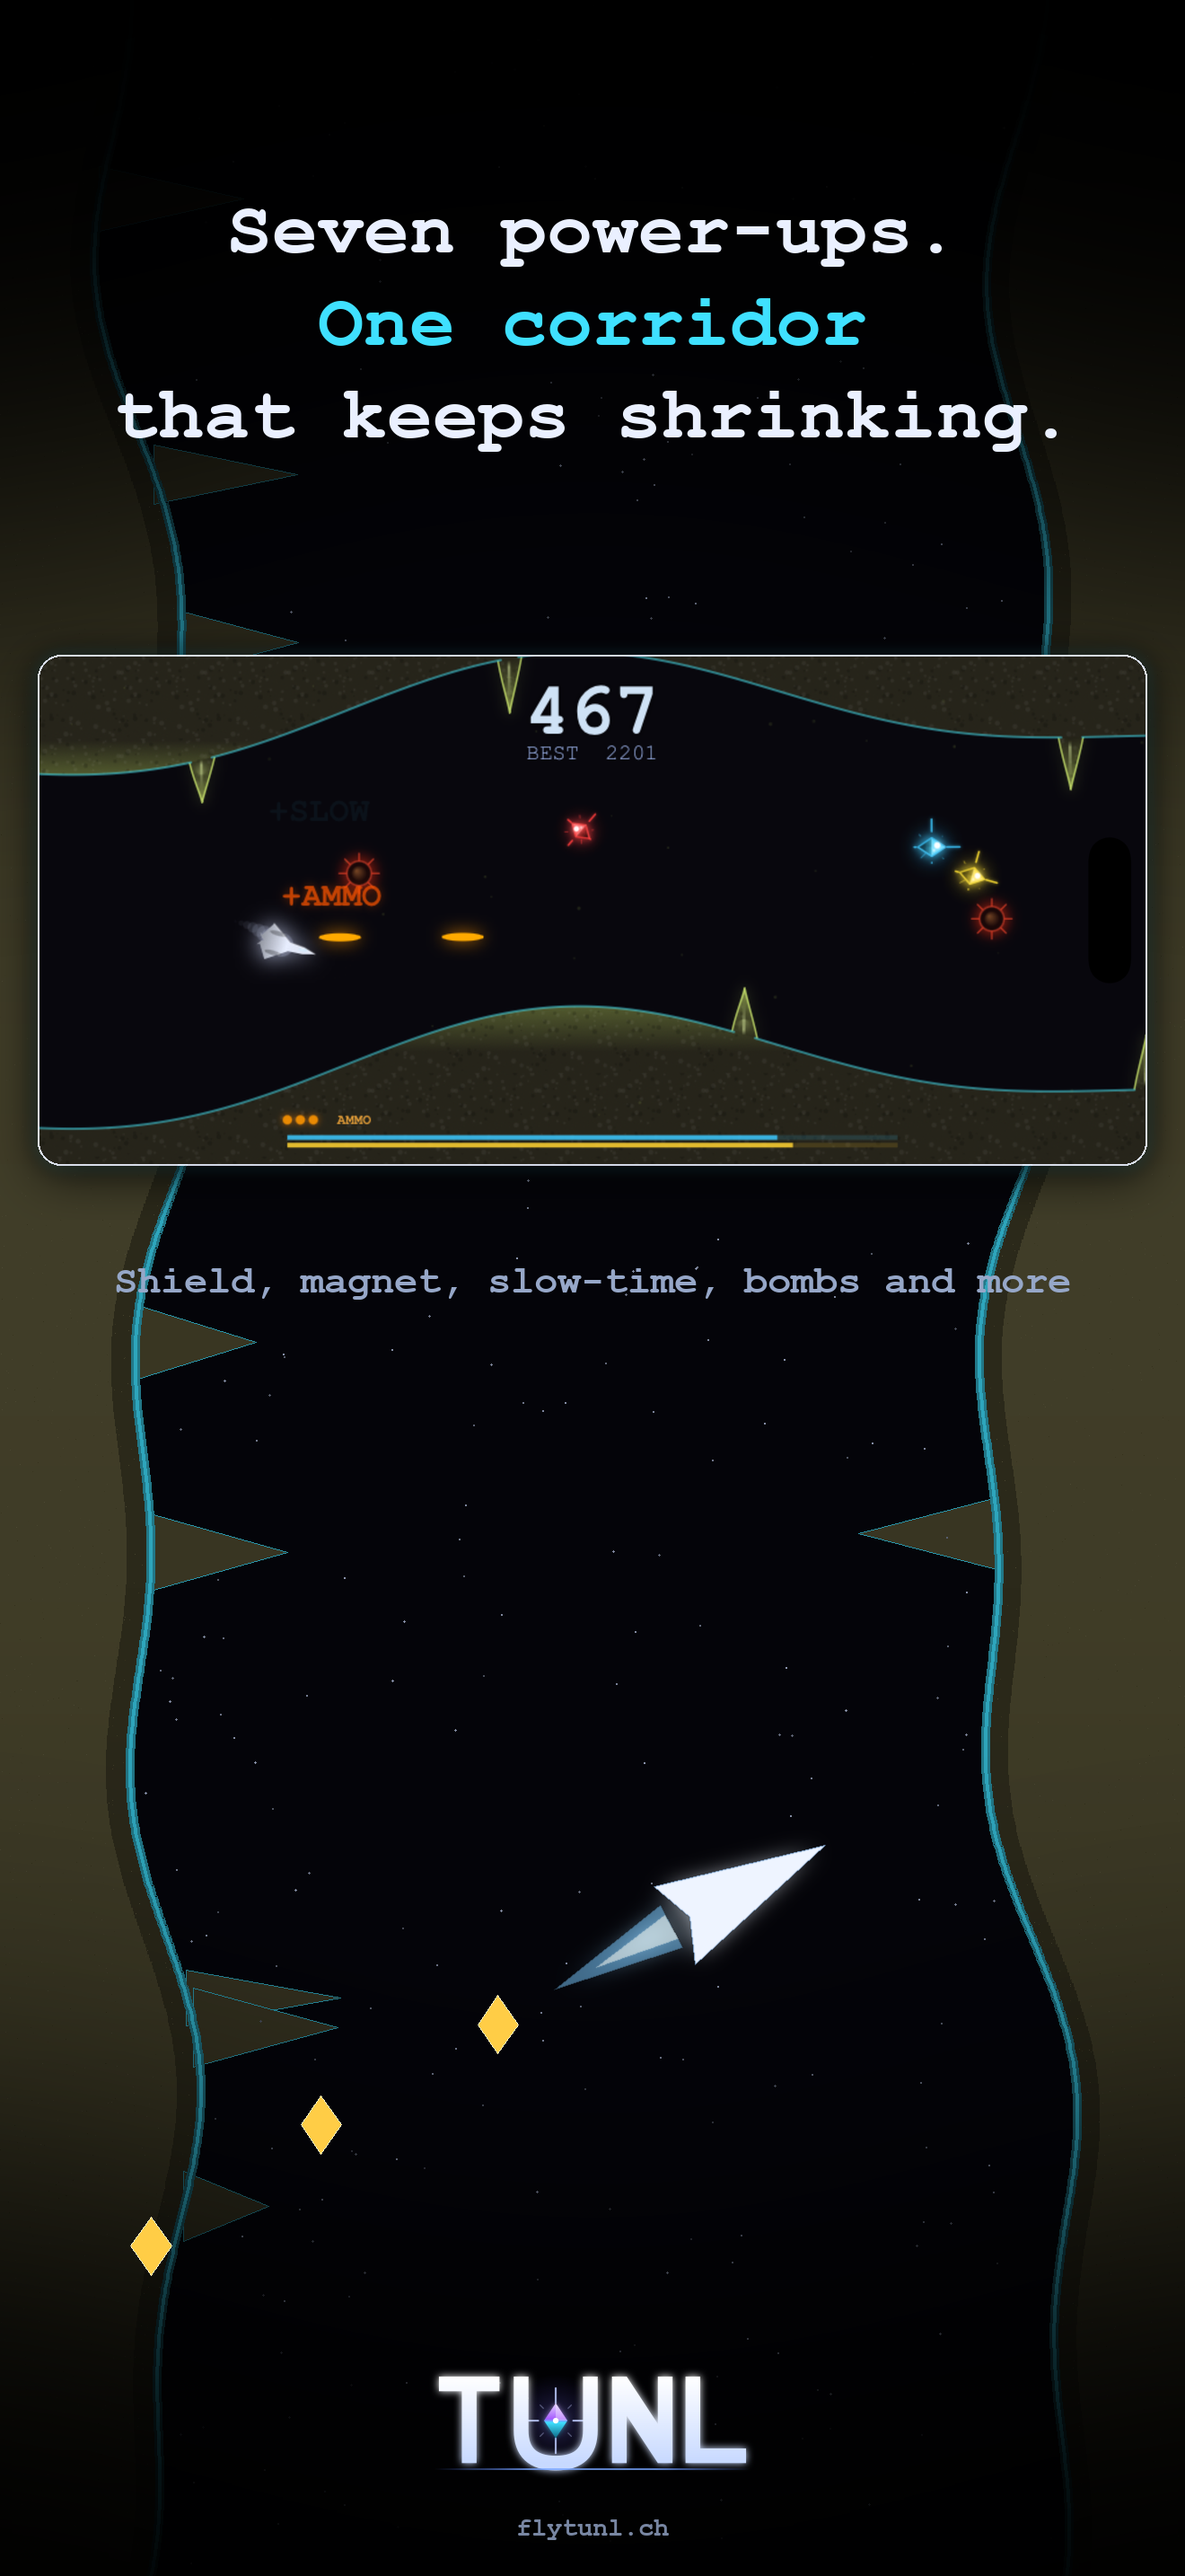
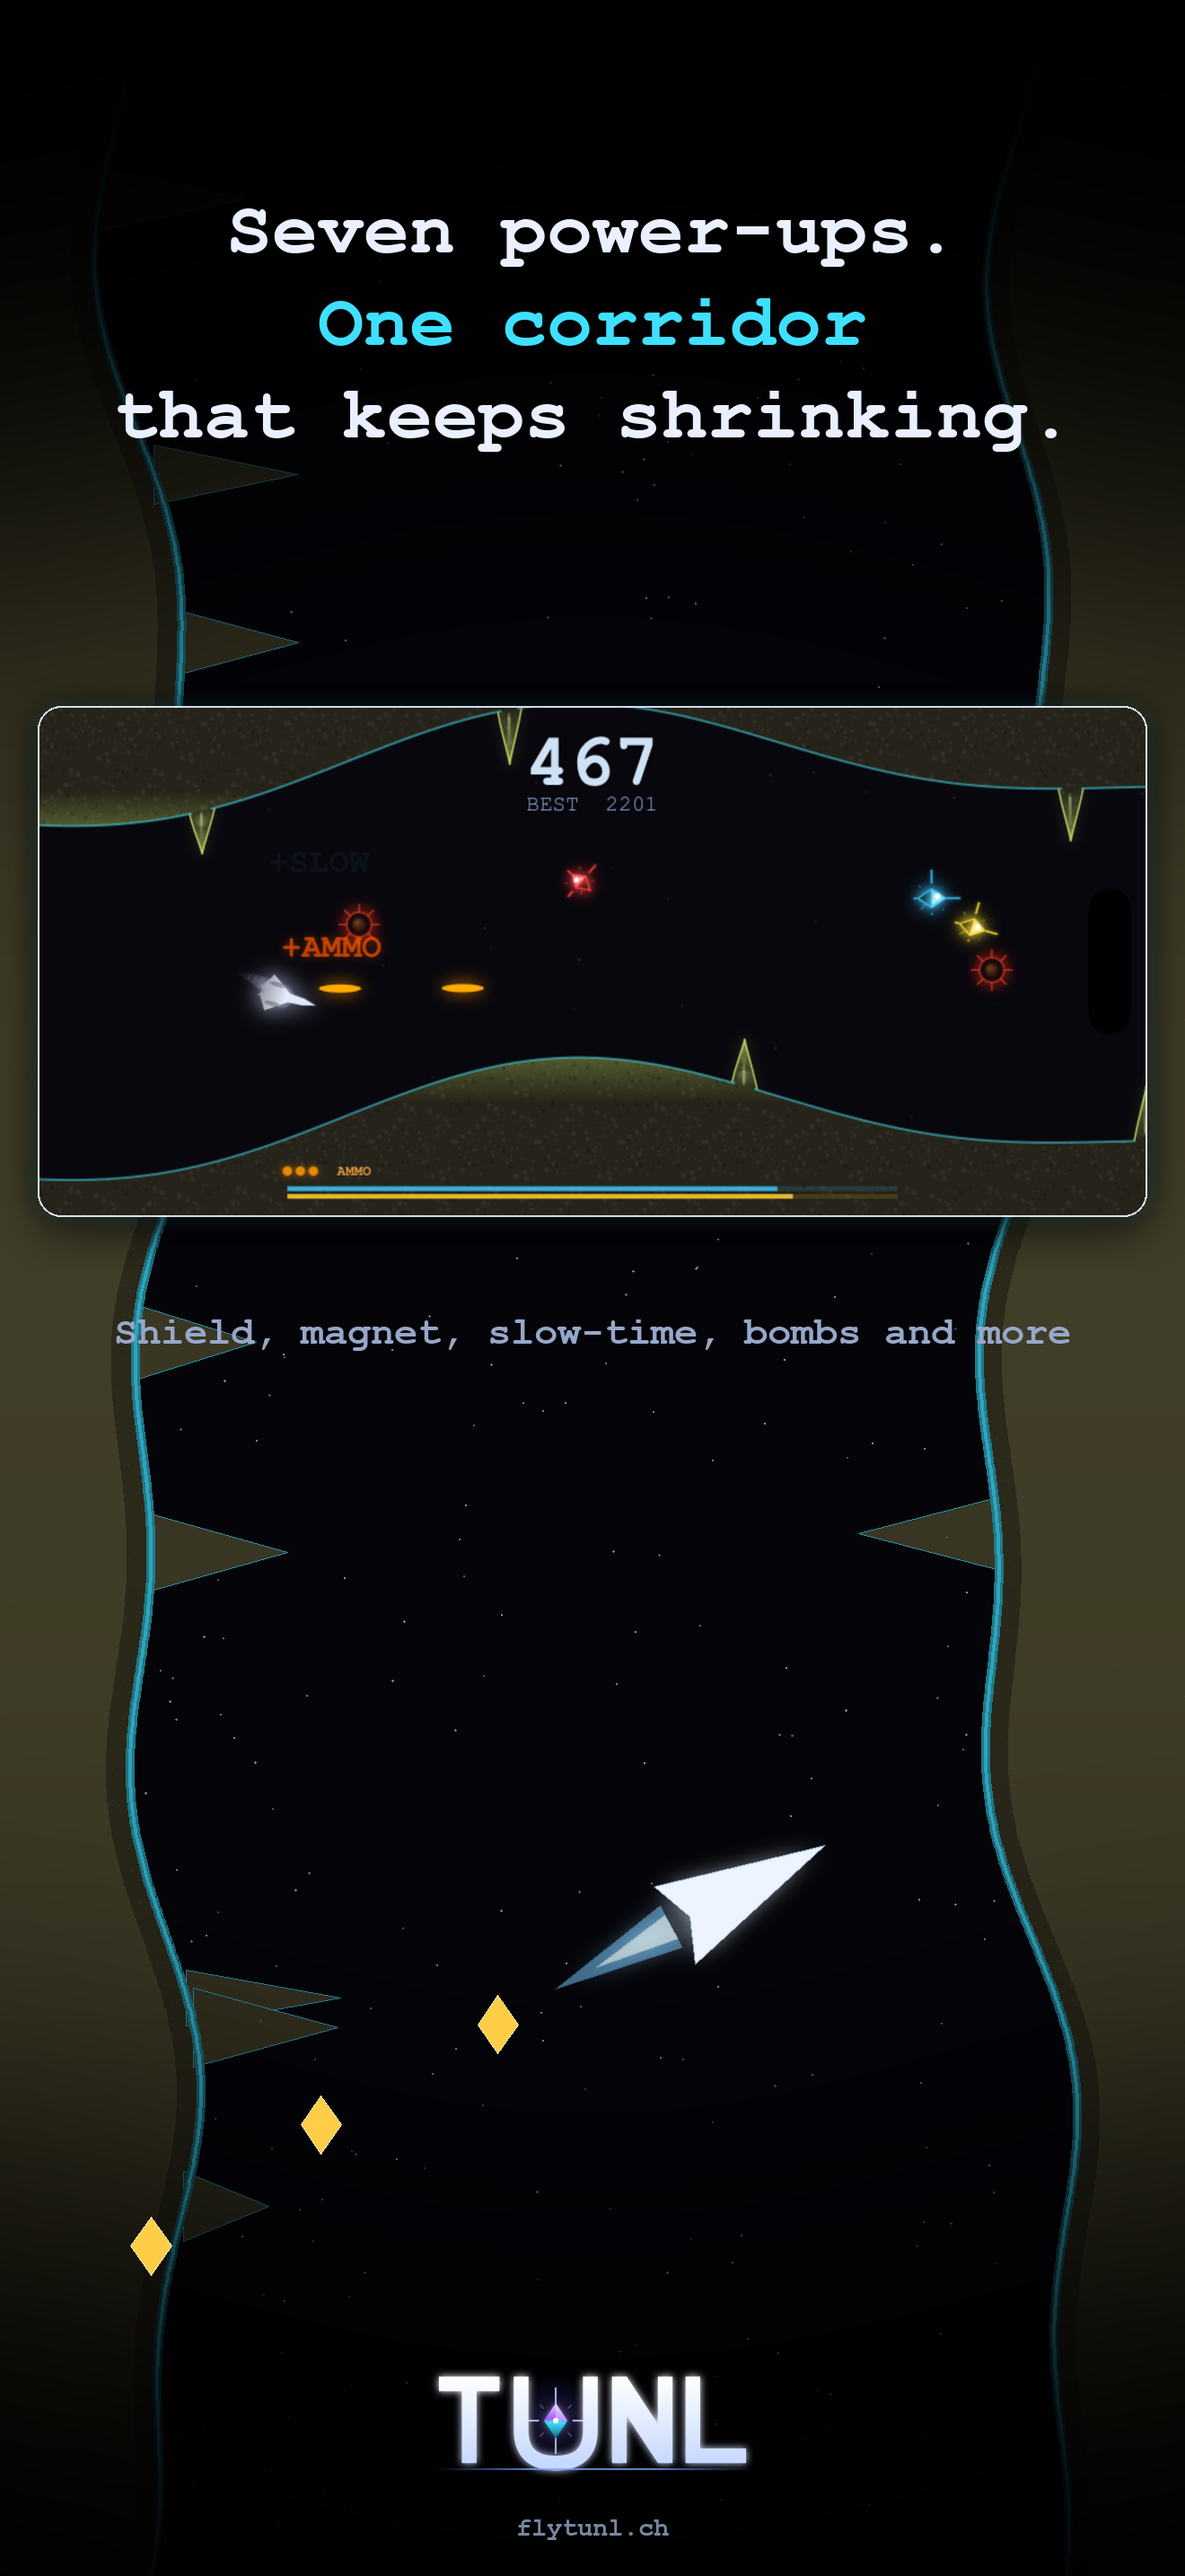
Rail badges for rank/challenges, tighter title + popup spacing

Changed region(s): [[0.0311, 0.2483, 0.9939, 0.5275]]

diff --git a/src/draw.js b/src/draw.js
@@ -1669,17 +1669,36 @@ function drawRailIcon(key, cx, cy, r, color, lineW) {
             break;
         }
         case 'challenge': {
-            // Crossed blades.
-            const L = r * 1.15;
-            ctx.beginPath();
-            ctx.moveTo(cx - L * 0.5, cy - L * 0.5);
-            ctx.lineTo(cx + L * 0.5, cy + L * 0.5);
-            ctx.moveTo(cx + L * 0.5, cy - L * 0.5);
-            ctx.lineTo(cx - L * 0.5, cy + L * 0.5);
-            ctx.stroke();
-            ctx.beginPath();
-            ctx.arc(cx, cy, r * 0.11, 0, Math.PI * 2);
-            ctx.fill();
+            // Crossed swords -- a bare X read as a close/cancel button rather
+            // than a duel (direct feedback). Each blade now gets a crossguard
+            // tick near the middle and a pommel dot at its hilt end (the two
+            // bottom-outer corners), tips pointing to the two top-outer
+            // corners, so the shape reads as swords rather than an X.
+            const L = r * 1.1;
+            const blades = [
+                [cx - L * 0.55, cy - L * 0.55, cx + L * 0.55, cy + L * 0.55],
+                [cx + L * 0.55, cy - L * 0.55, cx - L * 0.55, cy + L * 0.55],
+            ];
+            for (const [tx, ty, hx, hy] of blades) {
+                ctx.beginPath();
+                ctx.moveTo(tx, ty);
+                ctx.lineTo(hx, hy);
+                ctx.stroke();
+                // Crossguard: a short perpendicular tick partway from tip to hilt.
+                const t = 0.60;
+                const gx = tx + (hx - tx) * t, gy = ty + (hy - ty) * t;
+                const dx = hx - tx, dy = hy - ty, len = Math.hypot(dx, dy);
+                const nx = -dy / len, ny = dx / len;
+                const gw = r * 0.30;
+                ctx.beginPath();
+                ctx.moveTo(gx - nx * gw, gy - ny * gw);
+                ctx.lineTo(gx + nx * gw, gy + ny * gw);
+                ctx.stroke();
+                // Pommel.
+                ctx.beginPath();
+                ctx.arc(hx, hy, r * 0.09, 0, Math.PI * 2);
+                ctx.fill();
+            }
             break;
         }
         case 'shop': {
@@ -2016,6 +2035,9 @@ function drawTitleScreen() {
     // in-run flash. Same shrink-to-fit against the screen edges the level line
     // above uses, and the same wallBase accent color the wall glow uses
     // elsewhere, so the name itself visually IS the day's rock.
+    // Kept in an outer var so the REKORD line below can anchor its gap to this
+    // line's actual baseline rather than a hard H fraction.
+    let planetBaselineY = LAND ? H * 0.395 - 11 : H / 2 - H * 0.038;
     {
         const planetLine = `${T.planet} ${WEEKDAY_PALETTES[weekdayIndex(new Date())].planet.toUpperCase()}`;
         let planetFsz = FS * 0.020;
@@ -2033,7 +2055,8 @@ function drawTitleScreen() {
         ctx.shadowColor = rgb(dayTheme.wallBase, a * 0.85);
         ctx.shadowBlur  = 8;
         ctx.fillStyle   = rgb(dayTheme.wallBase, a * 0.95);
-        ctx.fillText(planetLine, titleX, (LAND ? H * 0.395 - 11 : H / 2 - H * 0.038) + planetFsz * 1.5);
+        planetBaselineY += planetFsz * 1.5;
+        ctx.fillText(planetLine, titleX, planetBaselineY);
         ctx.shadowBlur  = 0;
     }
 
@@ -2057,16 +2080,18 @@ function drawTitleScreen() {
     // (inside the ALL SHIPS sheet below) instead of competing with the logo for
     // the same screen (Cockpit-Kritik observations 2 and 5).
     if (best > 0) {
-        // 0.70H, not something closer to the level/planet lines above -- the
-        // in-scene idle ship (PX/py, restored per feedback above) rests right
-        // around 0.55H at this same titleX-ish x range, so anything between
-        // roughly 0.49H and 0.62H runs straight through it. Below the ship
-        // instead of just under the header block.
+        // Sat at a flat 0.70H (below the in-scene idle ship at PX/py ~ 0.5H),
+        // but that pulled it so far from the planet line above that the two no
+        // longer read as one stat group -- direct feedback, twice. Anchor to
+        // the planet line's real baseline and drop only ~1/3 of the way toward
+        // the old 0.70H slot so it tucks up close under the planet line. Lands
+        // around 0.51H, overlapping the idle ship's glow -- accepted per the
+        // repeated "still a little up" feedback.
         ctx.font        = `bold ${FS * 0.038}px 'Courier New',monospace`;
         ctx.fillStyle   = `rgba(190,212,255,${a * 0.98})`;
         ctx.shadowColor = 'rgba(0,0,0,0.90)';
         ctx.shadowBlur  = 3;
-        ctx.fillText(`${T.allTime}  ${best}`, titleX, LAND ? H * 0.70 : H / 2 - H * 0.038);
+        ctx.fillText(`${T.allTime}  ${best}`, titleX, LAND ? planetBaselineY + (H * 0.70 - planetBaselineY) * 0.33 : H / 2 - H * 0.038);
         ctx.shadowBlur  = 0;
     }
 
@@ -2193,10 +2218,16 @@ function drawTitleScreen() {
         const hasChallenge  = hasGameCenter && !!window._tunlChallengeSupported;
         const doneCount     = dailyMissionsClaimed.filter(Boolean).length;
 
+        // Today's world rank (state.js, populated after Game Center auth + the
+        // first score submit resolves -- see main.js/GameView.swift's
+        // fetchWorldRank). Same hasRank gate the death screen's rank column
+        // uses; stays hidden rather than showing a placeholder until then.
+        const hasRank = worldRank !== null && worldRank > 0;
+
         const items = [];
         items.push({ key: 'missions', badge: `${doneCount}/${dailyMissionIdx.length}`, showBadge: doneCount < dailyMissionIdx.length });
-        if (hasGameCenter) items.push({ key: 'leaderboard' });
-        if (hasChallenge)  items.push({ key: 'challenge' });
+        if (hasGameCenter) items.push({ key: 'leaderboard', badge: hasRank ? (worldRankTotal > 0 ? `${worldRank}/${worldRankTotal}` : `${worldRank}`) : null, showBadge: hasRank });
+        if (hasChallenge)  items.push({ key: 'challenge', badge: activeChallenges > 0 ? `${activeChallenges}` : null, showBadge: activeChallenges > 0 });
         items.push({ key: 'shop' });
         items.push({ key: 'settings' });
 
@@ -2291,7 +2322,11 @@ function drawTitleScreen() {
         ctx.fillStyle   = 'rgba(165,190,255,0.95)';
         ctx.shadowColor = 'rgba(0,0,0,0.90)';
         ctx.shadowBlur  = 5;
-        ctx.fillText(T.missions, W / 2, panY + padTop + titleH / 2);
+        // Every submenu title (Missions/Ships/Settings/Shop/currency info) is
+        // nudged up by this same FS-relative amount so it sits a touch clear of
+        // its own title band's bottom edge -- opens a little breathing room
+        // between the heading and the content below without moving the content.
+        ctx.fillText(T.missions, W / 2, panY + padTop + titleH / 2 - FS * 0.013);
         ctx.shadowBlur  = 0;
 
         const blockX  = W / 2 - mc.total / 2;
@@ -2355,7 +2390,7 @@ function drawTitleScreen() {
         ctx.fillStyle   = 'rgba(255,225,110,0.95)';
         ctx.shadowColor = 'rgba(0,0,0,0.9)';
         ctx.shadowBlur  = 5;
-        ctx.fillText(T.ships, W / 2, H * 0.09);
+        ctx.fillText(T.ships, W / 2, H * 0.09 - FS * 0.013); // see T.missions title note
         ctx.shadowBlur  = 0;
 
         // Shard/stardust wallet -- the numbers that matter when choosing a
@@ -2677,7 +2712,7 @@ function drawTitleScreen() {
         ctx.fillStyle   = 'rgba(165,190,255,0.95)';
         ctx.shadowColor = 'rgba(0,0,0,0.90)';
         ctx.shadowBlur  = 5;
-        ctx.fillText(T.settings, W / 2, y + titleH / 2);
+        ctx.fillText(T.settings, W / 2, y + titleH / 2 - FS * 0.013); // see T.missions title note
         ctx.shadowBlur  = 0;
         y += titleH;
 
@@ -2834,7 +2869,7 @@ function drawTitleScreen() {
         ctx.fillStyle   = 'rgba(165,190,255,0.95)';
         ctx.shadowColor = 'rgba(0,0,0,0.90)';
         ctx.shadowBlur  = 5;
-        ctx.fillText(T.shop, W / 2, y + titleH / 2);
+        ctx.fillText(T.shop, W / 2, y + titleH / 2 - FS * 0.013); // see T.missions title note
         ctx.shadowBlur  = 0;
         y += titleH;
 
@@ -3036,7 +3071,7 @@ function drawTitleScreen() {
             ctx.font = `bold ${titleFsz}px 'Courier New',monospace`;
         }
         ctx.fillStyle   = 'rgba(255,225,110,0.95)';
-        ctx.fillText(T.howItWorks, W / 2, panY + padTop);
+        ctx.fillText(T.howItWorks, W / 2, panY + padTop - FS * 0.013); // see T.missions title note
 
         ctx.textAlign = 'left';
         ctx.font      = `${bodyFontSz}px 'Courier New',monospace`;

diff --git a/Tunl/Tunl/GameView.swift b/Tunl/Tunl/GameView.swift
@@ -171,6 +171,7 @@ struct GameView: UIViewRepresentable {
                     // session already has a standing to show and a baseline to compute
                     // the first delta against, instead of one blank run.
                     self.fetchWorldRank()
+                    self.fetchActiveChallenges()
                 } else if let error {
                     print("Game Center auth failed: \(error.localizedDescription)")
                 }
@@ -204,6 +205,8 @@ struct GameView: UIViewRepresentable {
                 // Only after the submit lands, so the rank reflects the run that just
                 // ended rather than the previous one.
                 self?.fetchWorldRank()
+                // A score submit is also how a challenge gets beaten, so re-check.
+                self?.fetchActiveChallenges()
             }
         }
 
@@ -243,6 +246,26 @@ struct GameView: UIViewRepresentable {
                                       range: NSRange(location: 1, length: 1)) { _, _, totalPlayers, allTimeError in
                         sendUpdate(allTimeError == nil ? totalPlayers : 0)
                     }
+                }
+            }
+        }
+
+        // How many Game Center Challenges are currently issued to this player and
+        // still unmet. Surfaced as a small badge under the title screen's CHALLENGE
+        // icon (src/draw.js) so an open challenge is visible without opening Game
+        // Center. TUNL's challenges are linked to the *daily* leaderboard (see the
+        // project memory / doc comments above), so a still-pending challenge is by
+        // construction one from today -- no extra expiry filtering needed here.
+        // loadReceivedChallenges predates the iOS 26 challenge redesign but still
+        // returns the same objects for it; on pre-26 devices there simply are none.
+        private func fetchActiveChallenges() {
+            guard GKLocalPlayer.local.isAuthenticated else { return }
+            GKChallenge.loadReceivedChallenges { [weak self] challenges, error in
+                guard error == nil else { return }
+                let count = (challenges ?? []).filter { $0.state == .pending }.count
+                let json = "{\"activeChallenges\":\(count)}"
+                DispatchQueue.main.async {
+                    self?.webView?.evaluateJavaScript("window._tunlNativeUpdate && window._tunlNativeUpdate(\(json))")
                 }
             }
         }
@@ -312,6 +335,16 @@ struct GameView: UIViewRepresentable {
         // was based on.
         func player(_ player: GKPlayer, wantsToPlay challenge: GKChallenge) {
             showLeaderboard()
+        }
+
+        // Keep the title screen's CHALLENGE badge live: refresh the outstanding
+        // count whenever one arrives or the player clears one a friend sent.
+        func player(_ player: GKPlayer, didReceive challenge: GKChallenge) {
+            fetchActiveChallenges()
+        }
+
+        func player(_ player: GKPlayer, didComplete challenge: GKChallenge, issuedByFriend friendPlayer: GKPlayer) {
+            fetchActiveChallenges()
         }
 
         func webView(_ webView: WKWebView, didFinish navigation: WKNavigation!) {

diff --git a/src/state.js b/src/state.js
@@ -35,6 +35,12 @@ let _btnMusicRect = null, _btnFxRect = null;
 // submit hasn't come back yet), and the death screen falls back to the local list.
 // worldRankDelta is positive when the player climbed, since a smaller rank is better.
 let worldRank = null, worldRankTotal = 0, worldRankDelta = 0;
+// Count of Game Center Challenges currently issued to this player and not yet met,
+// pushed in by GameView.swift's fetchActiveChallenges (iOS 26+ only -- Android has
+// no challenge system). Drives the small badge under the title screen's CHALLENGE
+// icon so an open challenge is visible without opening Game Center. Not persisted,
+// same reasoning as worldRank above.
+let activeChallenges = 0;
 // Shards: persistent currency banked from collected coins across all runs, spent on ship
 // unlocks (see SKINS[].cost in constants.js). Replaces the old single-run-score gate.
 // First launch under this system (no tunnel_shards key yet) resets ship unlocks to just

diff --git a/src/main.js b/src/main.js
@@ -38,6 +38,13 @@ window._tunlNativeUpdate = function (state) {
     if (typeof state.worldRankTotal === 'number' && state.worldRankTotal > 0) {
         worldRankTotal = state.worldRankTotal;
     }
+    // Outstanding Game Center Challenges for this player, pushed from
+    // GameView.swift (fetchActiveChallenges) at auth, after each score submit, and
+    // when one arrives or is completed live. Drives the CHALLENGE icon badge on the
+    // title screen. iOS 26+ only -- Android never sends this key.
+    if (typeof state.activeChallenges === 'number') {
+        activeChallenges = state.activeChallenges;
+    }
     // Dynamic Island/notch clearance (constants.js SAFE_L/SAFE_R), pushed from
     // GameView.swift's TunlWebView.onSafeAreaChange -- on launch and again on
     // every safe-area change (rotation between LandscapeLeft/LandscapeRight

diff --git a/flytunl-site/site/index.html b/flytunl-site/site/index.html
@@ -258,7 +258,7 @@
     <p class="tagline">Eternal Labyrinth</p>
     <p class="pitch">A hold-to-thrust cave flyer. Hold to climb, release to fall,
     and see how far you can push into the dark before the tunnel closes in.</p>
-    <p class="whatsnew"><strong>New in 7.1:</strong> shield, ammo, and magnet coins now carry
+    <p class="whatsnew"><strong>New in 8.0:</strong> shield, ammo, and magnet coins now carry
     their own shape and size, not just color - spot them at a glance, even colorblind.
     Shields show up right as mines start, magnets get more common the longer you fly.</p>
 

diff --git a/src/systems.js b/src/systems.js
@@ -301,7 +301,9 @@ function checkCoinCollection() {
 
 function updateBullets(dt) {
     if (bulletAmmo > 0) {
-        bulletFireTimer = Math.max(0, bulletFireTimer - dt);
+        // Same slowScrollFactor() clock as bullet travel/scroll/music below, so the
+        // fire rate itself sags and recovers with bullet-time instead of staying real-time.
+        bulletFireTimer = Math.max(0, bulletFireTimer - dt * slowScrollFactor());
         if (bulletFireTimer <= 0) {
             bulletAmmo--;
             bulletFireTimer = 0.32;

diff --git a/Screenshots/make-portrait-frames.py b/Screenshots/make-portrait-frames.py
@@ -223,9 +223,12 @@ def build(shot_path, out_path, headline_lines, accent_idx, subhead, seed):
         col = CYAN if i == accent_idx else INK
         center_text(d, W / 2, y, line, hf, col)
         y += lh
-    head_bottom = y
 
-    # Screenshot card, sitting in the corridor a touch above centre.
+    # Screenshot card, sitting in the corridor a touch above centre. Anchored
+    # off the *unshrunk* headline block height (not the actual, possibly
+    # smaller, `y` above) so a headline that needed auto-shrinking doesn't
+    # pull the card up relative to the other screenshots in the set.
+    head_bottom = 210 + len(headline_lines) * int(100 * 1.22)
     card = rounded_card(Image.open(shot_path).convert("RGB"), 1236)
     cx = (W - card.width) // 2
     cy = int(head_bottom + 150)
